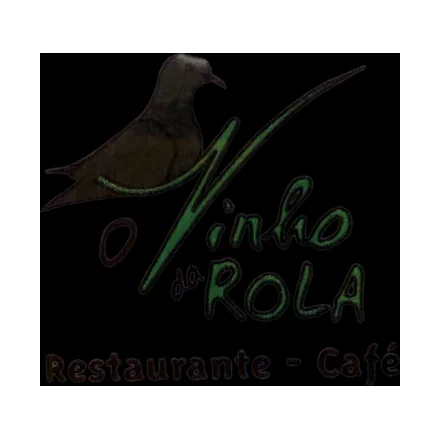
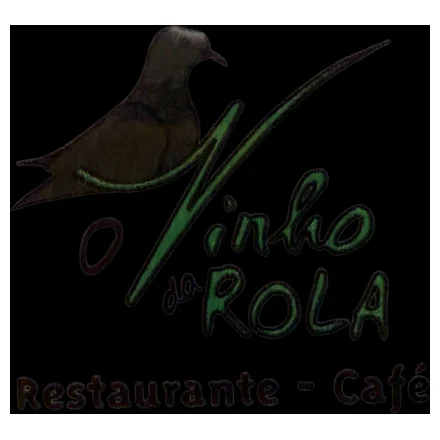
fix: logótipos legíveis e deploy sem os 3 GB
Os logótipos apareciam a metade do tamanho: tinham folga cozida no
ficheiro e mais folga no layout. A margem passa a existir só num sítio
— no layout — e o selo sobe de 64 para 80px. Verificado em captura: o
Oeiras Valley, o QB e o Muchacho leem-se agora; o Ninho da Rola
continua ilegível, mas isso é o ficheiro de origem, escuro sobre preto.

O .vercelignore é o que faltava para o deploy correr. O .gitignore não
governa o Vercel: o CLI empacota a pasta de trabalho e não o que o git
segue, por isso cada deploy tentava enviar os 3 GB de FOTOS/ e morria a
meio do upload com EPIPE.

Claude-Session: https://claude.ai/code/session_01VcqqJVXBM7c6f35CCijpaU

diff --git a/valejas-ac/src/app/patrocinadores/page.tsx b/valejas-ac/src/app/patrocinadores/page.tsx
@@ -139,14 +139,18 @@ function ApoioLinha({ apoio }: { apoio: Apoio }) {
   const conteudo = (
     <div className="flex items-center gap-5 py-5">
       {apoio.logo && (
-        <Image
-          src={apoio.logo}
-          alt=""
-          width={440}
-          height={440}
-          sizes="64px"
-          className="w-16 h-16 object-contain bg-white shrink-0"
-        />
+        // A respiração é dada aqui, e não dentro do ficheiro: com folga
+        // nos dois sítios o logótipo encolhia para metade do selo.
+        <span className="w-20 h-20 bg-white shrink-0 p-2 flex items-center justify-center">
+          <Image
+            src={apoio.logo}
+            alt=""
+            width={440}
+            height={440}
+            sizes="80px"
+            className="max-w-full max-h-full object-contain"
+          />
+        </span>
       )}
       <div className="grid grid-cols-1 sm:grid-cols-[16rem_1fr] sm:items-baseline gap-x-8 gap-y-1 min-w-0 flex-1">
         <span className="font-headline font-black uppercase text-lg md:text-xl text-on-surface leading-tight">
